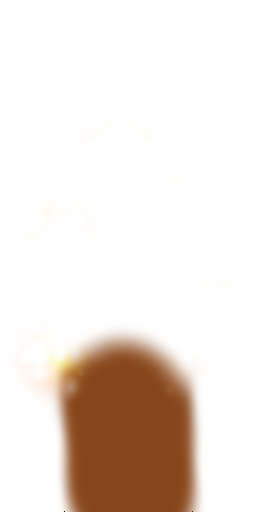
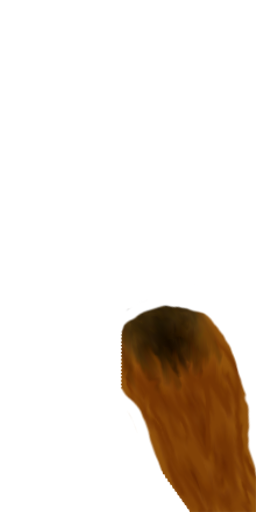
asd

Changed region(s): [[0.1562, 0.5938, 1.0, 1.0]]

diff --git a/Classes/Particle.cs b/Classes/Particle.cs
@@ -42,7 +42,7 @@ namespace Kaibo_Crawler
             this.speed = speed;
             this.lifeTime = lifeTime;
 
-            this.scale = (float)(0.5 * Kaibo_Crawler.random.NextDouble());
+            this.scale = (float)(0.5*Kaibo_Crawler.random.NextDouble());
             this.rotation = (float)(Math.PI* Kaibo_Crawler.random.NextDouble());
 
             if (Kaibo_Crawler.random.NextDouble() < 0.5)

diff --git a/Classes/ParticleEmitter.cs b/Classes/ParticleEmitter.cs
@@ -33,8 +33,8 @@ namespace Kaibo_Crawler
         {
             //TODO: currently its tick based, make it timebased:
             emit(type, gameTime);
-            emit(type, gameTime);
-            emit(type, gameTime);
+       //     emit(type, gameTime);
+         //   emit(type, gameTime);
 
 
             for (int i = 0; i < particles.Count; i++)

diff --git a/Classes/Kaibo_Crawler.cs b/Classes/Kaibo_Crawler.cs
@@ -165,7 +165,7 @@ namespace Kaibo_Crawler
 
             gameOver = Content.Load<Texture2D>("gameover.png");
 
-            emitter.position = new Vector2(width - torch.Width / 2, height - torch.Height / 3);
+            emitter.position = new Vector2(width - torch.Width / 3, height - torch.Height / 3);
 
         }
 
